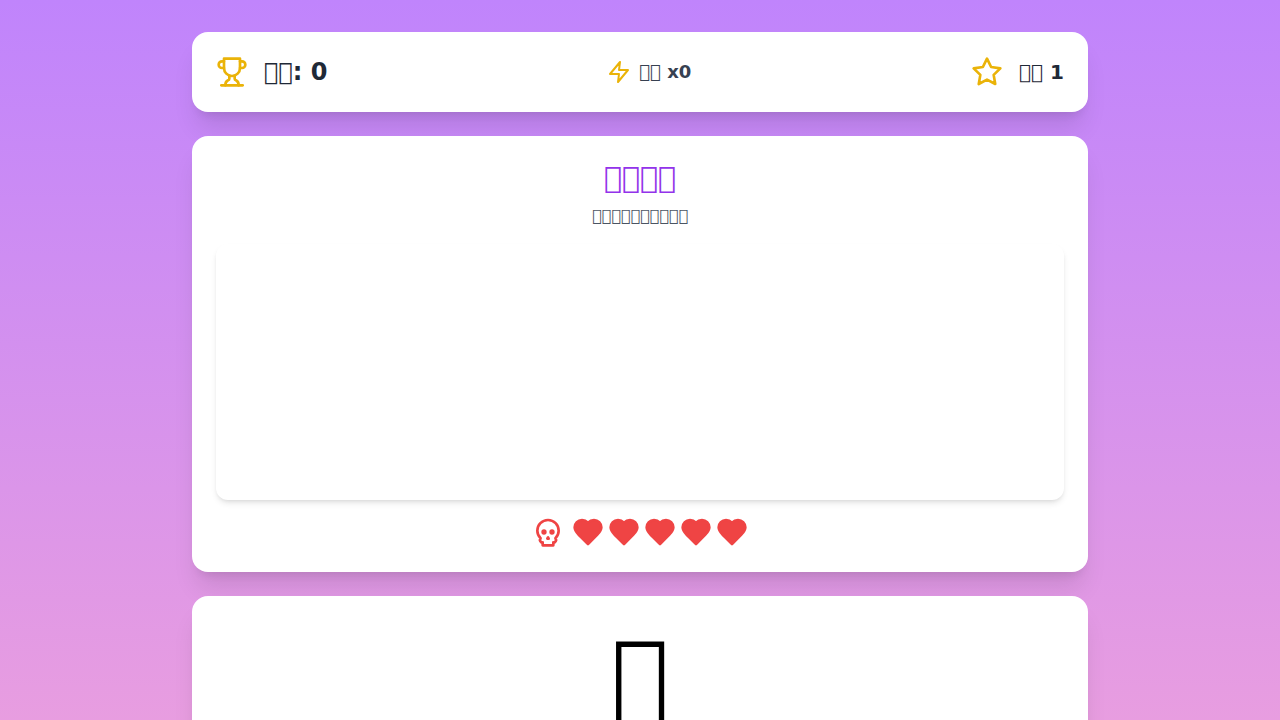
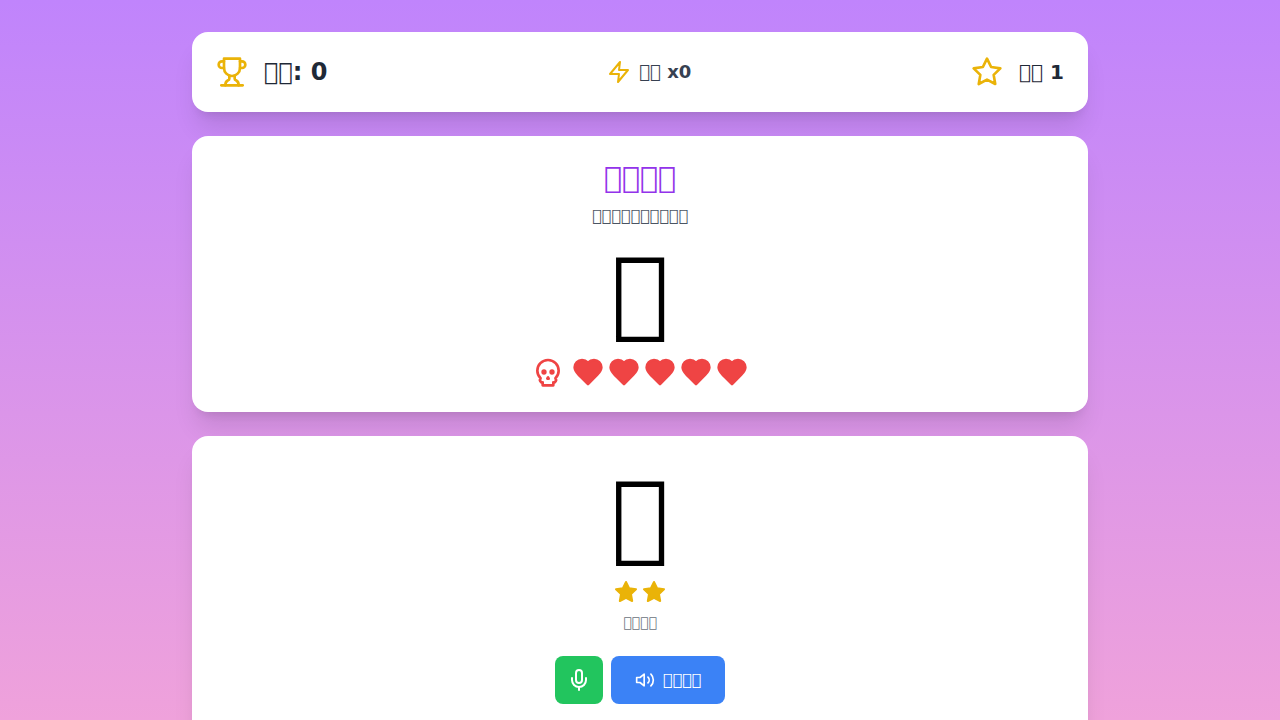
feat: Use emojis for level images
This commit updates the level images to use emojis instead of image URLs, as requested in the user feedback.

Changes:
- Renamed the `imageUrl` property in the `Level` interface to `imageEmoji` in `web/src/App.tsx`.
- Updated the `levels` state to use `imageEmoji` with emoji strings (e.g., '🐉' for the dragon).
- Modified the rendering logic in `renderGame` to display the emoji in a `<div>` instead of an `<img>` tag. The shake effect is now applied to this `div`.

This change addresses the feedback to use emoji-like images for the levels and boss.

Changed region(s): [[0.125, 0.3361, 0.875, 0.6111], [0.125, 0.6722, 0.875, 1.0]]

diff --git a/web/src/App.tsx b/web/src/App.tsx
@@ -73,7 +73,7 @@ interface Level {
   name: string;
   type: 'boss' | 'puzzle';
   description: string;
-  imageUrl: string;
+  imageEmoji: string;
   requiredWords: number;
   enemyLives?: number;
   tools?: string[];
@@ -87,7 +87,7 @@ const App: React.FC = () => {
       name: '巨龍巢穴',
       type: 'boss',
       description: '打敗守護寶藏的巨龍！',
-      imageUrl: 'https://img.freepik.com/free-vector/gradient-illustration-of-a-red-dragon_23-2151274331.jpg',
+      imageEmoji: '🐉',
       requiredWords: 5,
       enemyLives: 5
     },
@@ -96,7 +96,7 @@ const App: React.FC = () => {
       name: '魔法之門',
       type: 'puzzle',
       description: '收集三個魔法工具來開啟大門！',
-      imageUrl: 'https://st4.depositphotos.com/20792394/23559/v/450/depositphotos_235593194-stock-illustration-magic-gate-vector-fantasy-portal.jpg',
+      imageEmoji: '🚪✨',
       requiredWords: 3,
       tools: ['key', 'hammer', 'magic'] // These should map to words in vocab
     }
@@ -314,8 +314,8 @@ const App: React.FC = () => {
             <h2 className="text-3xl font-bold text-center mb-2 text-purple-600">{level.name}</h2>
             <p className="text-center text-gray-600 mb-4">{level.description}</p>
             
-            <div className="my-4">
-              <img src={level.imageUrl} alt={level.name} className={`w-full h-64 object-cover rounded-xl shadow-md transition-transform ${isBossShaking ? 'shake' : ''}`} />
+            <div className={`my-4 text-center text-8xl ${isBossShaking ? 'shake' : ''}`}>
+              {level.imageEmoji}
             </div>
 
             {level.type === 'boss' && (
